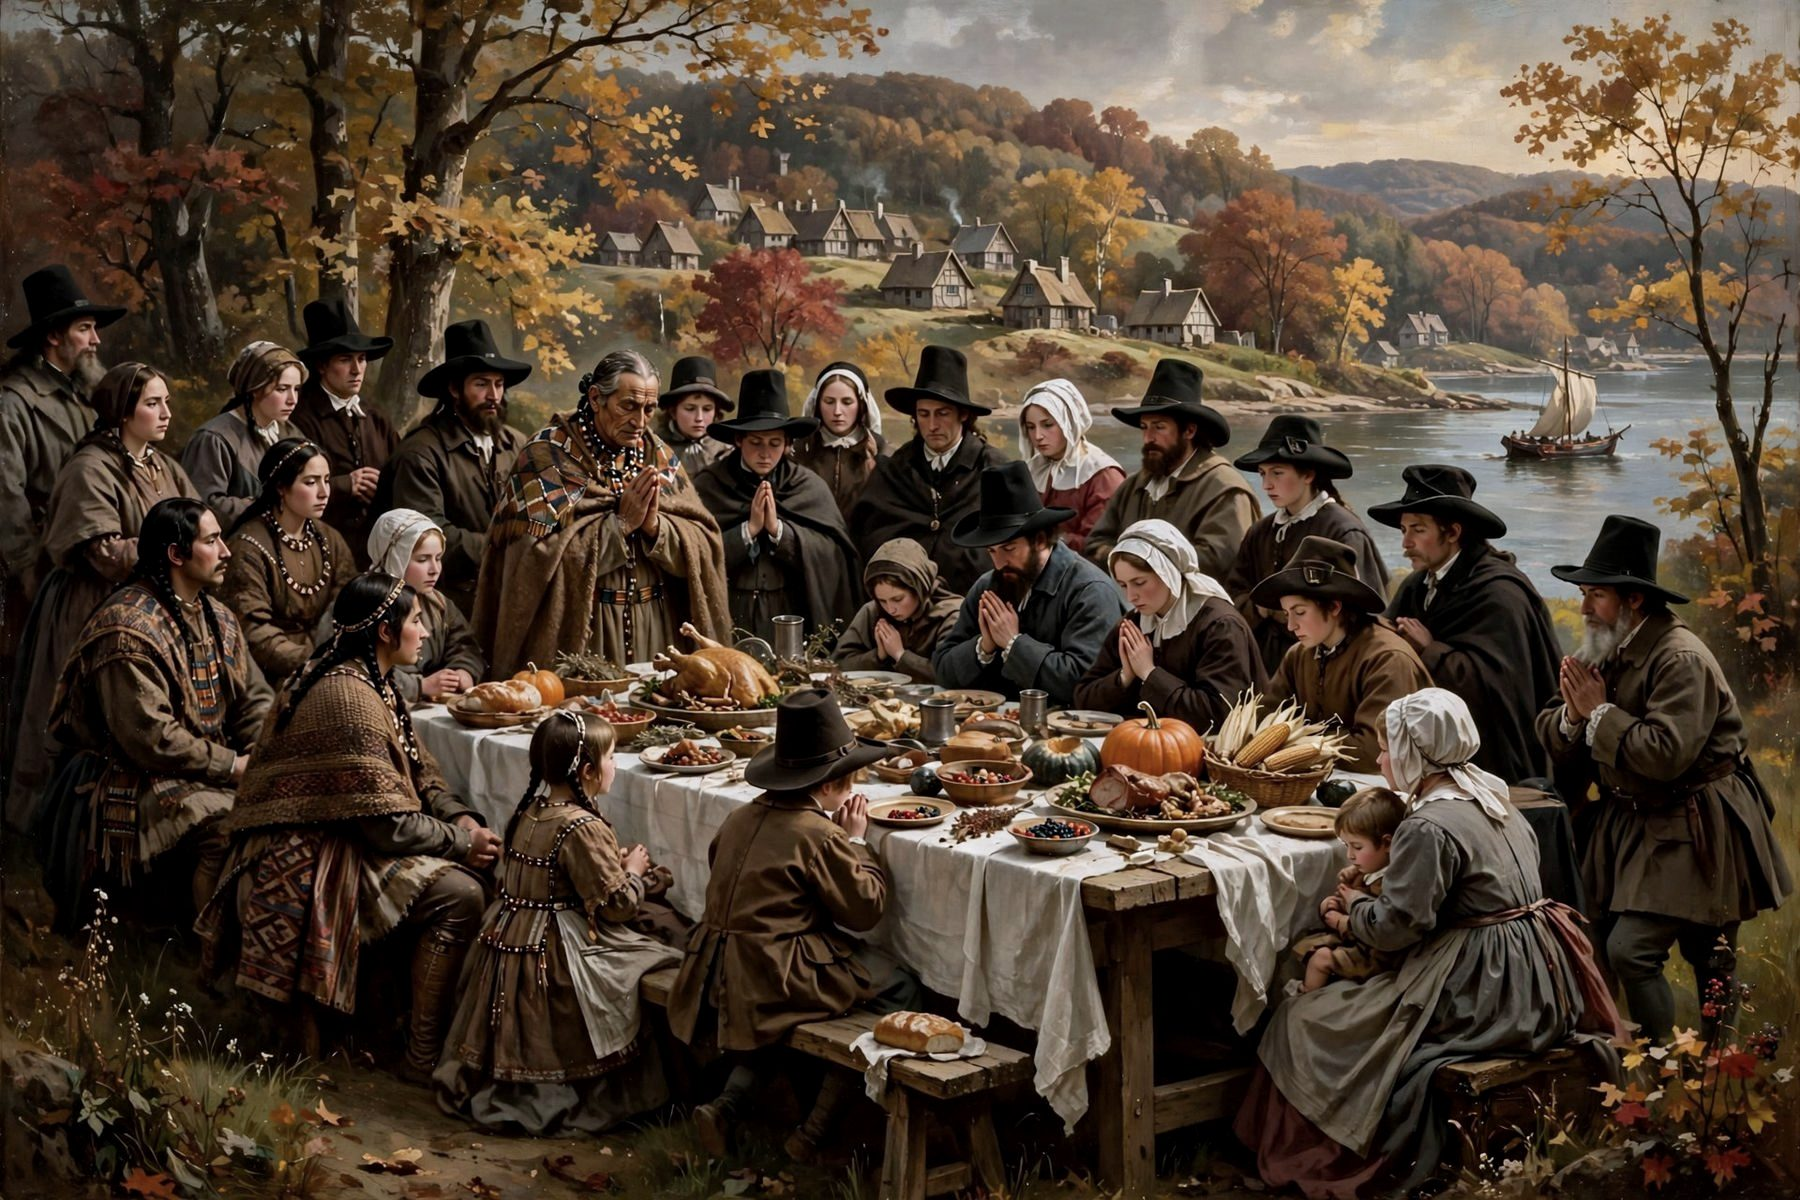
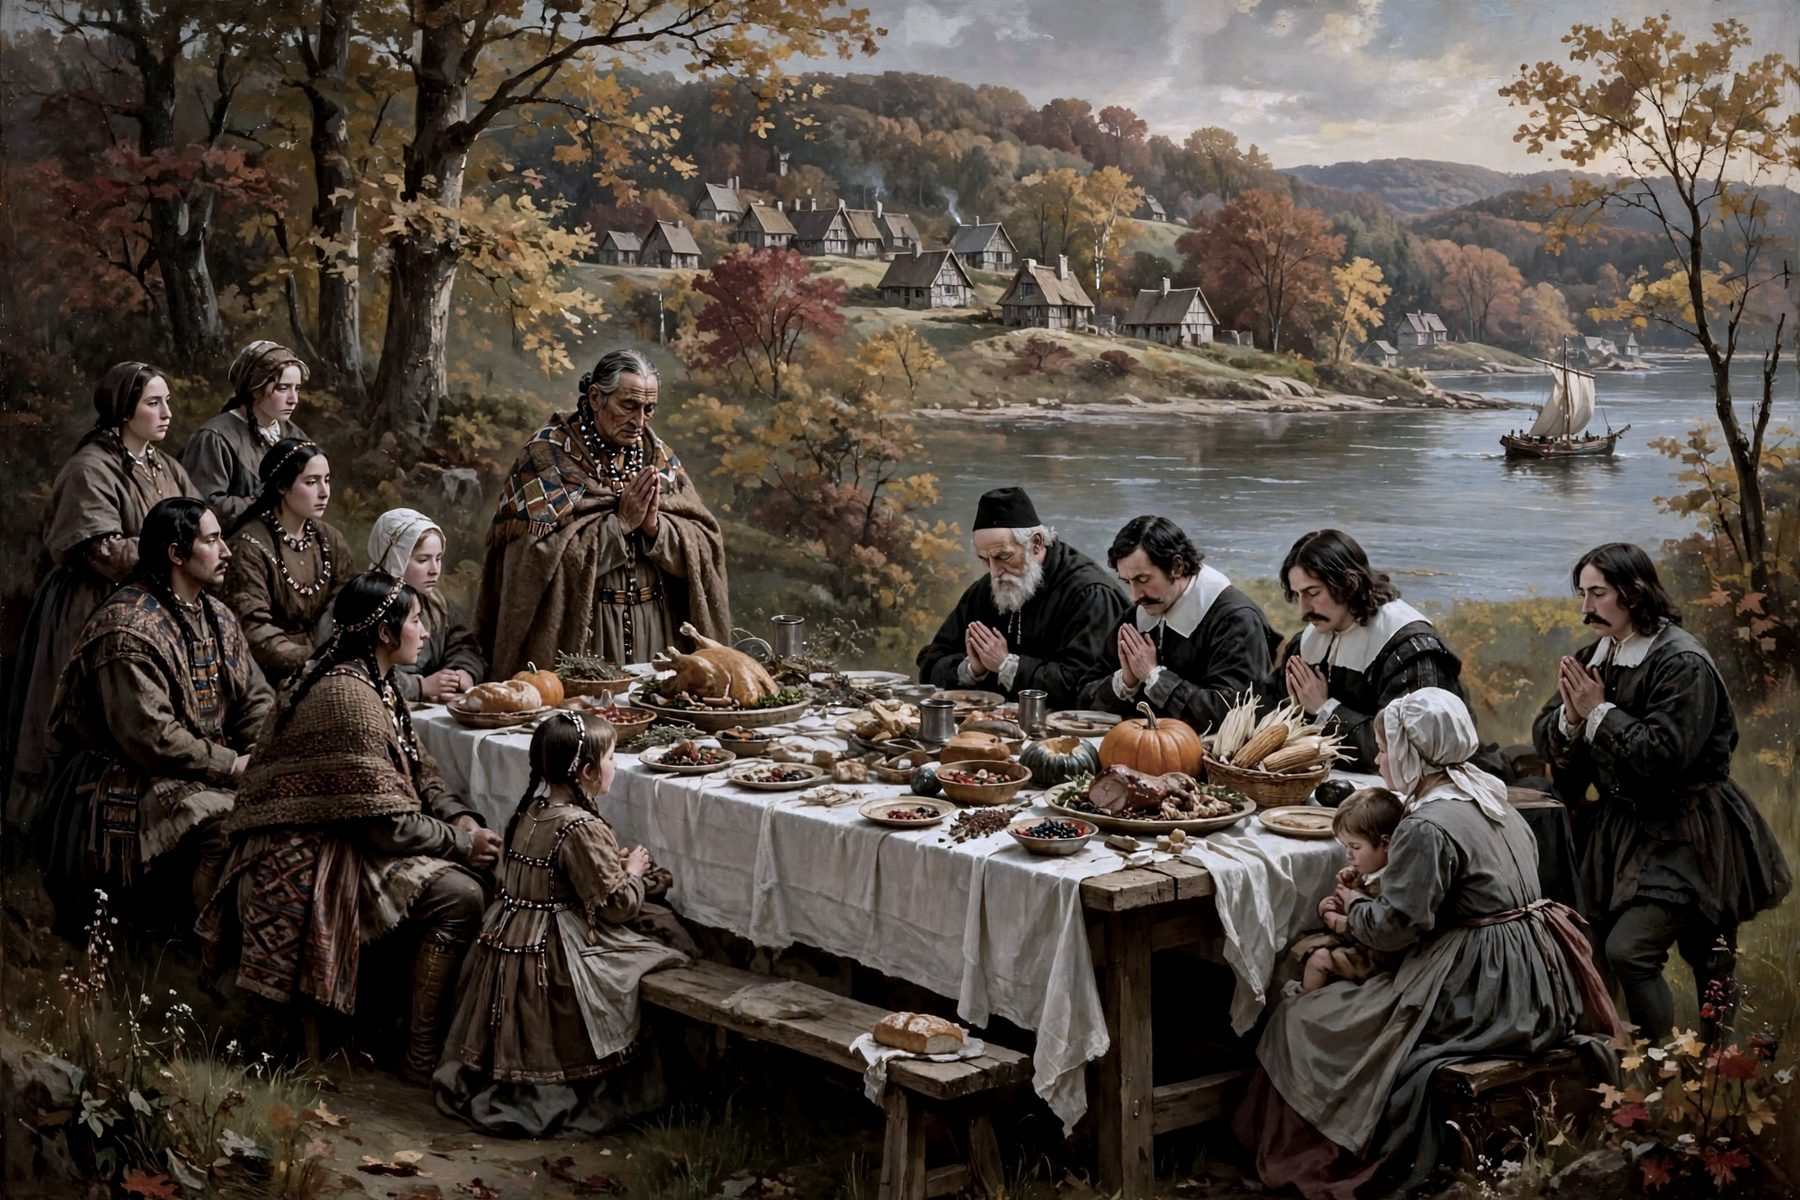
Thanksgiving card v3: three men painted into hero (Brewster/Bradford/Winslow), November grade re-applied, figures section + history note removed, 3-way Mandarin/Cantonese/English toggle, narration button for Abe's recordings

diff --git a/thanksgiving/index.html b/thanksgiving/index.html
@@ -18,7 +18,8 @@
   *{box-sizing:border-box}
   html,body{margin:0;padding:0}
   body{background:#f7f1e5;color:#3d2f1d;font-family:"Noto Serif CJK TC","Songti TC",Georgia,serif;line-height:1.75}
-  body[data-lang="zh"] .en{display:none}
+  body[data-lang="cmn"] .en{display:none}
+  body[data-lang="yue"] .en{display:none}
   body[data-lang="en"] .zh{display:none}
   a{color:#8a6d2f}
   .topbar{position:absolute;top:0;left:0;right:0;z-index:5;display:flex;justify-content:space-between;align-items:center;padding:14px 20px;color:#fdf8ec;text-shadow:0 1px 6px rgba(0,0,0,.55)}
@@ -45,23 +46,17 @@
   .verse small{display:block;font-size:.62em;letter-spacing:.1em;opacity:.9;margin-top:6px}
   .paper{max-width:680px;margin:0 auto;padding:44px 22px 30px}
   h1{font-size:clamp(26px,5vw,36px);line-height:1.4;text-align:center;margin:0 0 6px;color:#5b3f1a}
-  .sub{text-align:center;color:#8a6d2f;letter-spacing:.12em;font-size:14px;margin:0 0 28px}
+  .sub{text-align:center;color:#8a6d2f;letter-spacing:.12em;font-size:14px;margin:0 0 20px}
   .paper p{margin:0 0 18px;font-size:17px}
-  .note{border-left:3px solid #c9a24b;background:#f3e9d2;padding:14px 16px;font-size:14.5px;color:#6b5636;margin:26px 0}
-  .note b{color:#5b3f1a}
   h2{font-size:21px;color:#5b3f1a;margin:34px 0 14px;text-align:center}
-  .figs{display:grid;grid-template-columns:1fr 1fr;gap:16px}
-  .figcard{background:#fffdf6;border:1px solid #e3d3ae;border-radius:12px;padding:16px 14px;text-align:center}
-  .figcard img{width:112px;height:auto;border-radius:8px;border:1px solid #d8c08a;display:block;margin:0 auto 10px}
-  .figcard .name{font-weight:700;font-size:16.5px;color:#5b3f1a;line-height:1.5;margin:0 0 2px}
-  .figcard .role{font-size:13px;color:#8a6d2f;letter-spacing:.08em;margin:0 0 10px}
-  .figcard p{font-size:14.5px;line-height:1.7;text-align:left;margin:0}
-  .footnote{font-size:13px;color:#8a7a5c;text-align:center;margin:14px 0 0;line-height:1.6}
   .poem{background:#fffdf6;border:1px solid #e3d3ae;border-radius:12px;padding:22px 20px 18px;text-align:center}
   .poem .lines{font-size:17.5px;line-height:2.05;color:#4a3a22;margin:0 0 16px}
   .listen{display:inline-block;font-family:inherit;font-size:15.5px;letter-spacing:.06em;padding:10px 22px;border-radius:999px;border:1px solid #c9a24b;background:#c9a24b;color:#2b2118;cursor:pointer}
   .listen.speaking{background:#8a6d2f;border-color:#8a6d2f;color:#fdf8ec}
   .poem .hint{font-size:13px;color:#8a7a5c;margin:10px 0 0}
+  .narrate{text-align:center;margin:0 0 26px}
+  .narrate .listen{font-size:16.5px;padding:12px 26px}
+  .narrate .hint{font-size:13px;color:#8a7a5c;margin:10px 0 0}
   .sig{margin:34px 0 6px;font-size:18px;color:#5b3f1a;text-align:center}
   .copyrow{text-align:center;margin:22px 0 6px}
   .copybtn{display:inline-block;font-family:inherit;font-size:16px;padding:11px 24px;border-radius:999px;border:1px solid #8a6d2f;background:#fffdf6;color:#6b4d16;cursor:pointer}
@@ -76,21 +71,20 @@
     .verse{font-size:22px}
     .paper{padding:34px 18px 22px}
     .paper p{font-size:16.5px}
-    .figs{grid-template-columns:1fr}
-    .figcard img{width:96px}
     .fall .chip{font-size:12.5px}
     .fall .chip.zh{font-size:13.5px}
   }
 </style>
 </head>
-<body data-lang="zh">
+<body data-lang="cmn">
 
 <header class="topbar">
   <a href="https://gls.wordnspirit.com/">← <span class="zh">基督燈臺事工</span><span class="en">Golden Lampstand Ministry</span></a>
   <div class="topbar-right">
     <span class="tag">WORD &amp; SPIRIT · NEW ENGLAND</span>
     <div class="lang-toggle" role="group" aria-label="Language / 語言">
-      <button type="button" id="btn-zh" class="on" onclick="setLang('zh')">中文</button>
+      <button type="button" id="btn-cmn" class="on" onclick="setLang('cmn')">普通話</button>
+      <button type="button" id="btn-yue" onclick="setLang('yue')">粵語</button>
       <button type="button" id="btn-en" onclick="setLang('en')">English</button>
     </div>
   </div>
@@ -171,37 +165,21 @@
   <h1><span class="zh">1621 普利茅斯的秋光與感恩</span><span class="en">Autumn Light &amp; Gratitude Since 1621</span></h1>
   <p class="sub"><span class="zh">一張安靜的卡片，送給你</span><span class="en">A quiet card, for you</span></p>
 
+  <div class="narrate">
+    <button type="button" class="listen" id="narrateBtn" onclick="togglePlay('narration')"><span class="zh">▶ 聽牧師的話</span><span class="en">▶ Listen</span></button>
+    <p class="hint"><span class="zh">陳曉東牧師親自錄音</span><span class="en">Recorded by Rev. Dr. Abraham Chan</span></p>
+  </div>
+
   <p><span class="zh">在一個安靜的秋日，一張長桌擺在普利茅斯的海灣邊。清教徒與萬帕諾亞格人圍坐在一起，為著剛剛收穫的玉米、南瓜與野禽，低頭謝恩。桌上的食物不多，卻足夠讓一群歷經嚴冬、幾乎失去一切的人，重新學會一件事：恩典不是理所當然的。</span><span class="en">On a quiet autumn day, a long table stood by the bay at Plymouth. Pilgrims and Wampanoag sat together around it, bowing their heads in thanks for the corn, the pumpkins, and the wild fowl they had just harvested. The food was not plentiful, yet it was enough to teach a people who had survived a terrible winter, and lost nearly everything, one thing again: grace is never to be taken for granted.</span></p>
 
   <p><span class="zh">這張卡片所記念的，正是那一刻——恩典從上頭來。雅各書說：「各樣美善的恩賜和各樣全備的賞賜都是從上頭來的。」就像嗎哪一樣，食物、友誼與平安，都不是我們掙來的，而是從天上緩緩降下的禮物。</span><span class="en">This card remembers that moment — the moment grace came down from above. As James writes, “Every good gift and every perfect gift is from above.” Like manna, food, friendship, and peace are not things we earn; they are gifts that descend gently from heaven.</span></p>
-
-  <div class="note">
-    <p style="margin:0"><span class="zh"><b>歷史註記：</b>1621 年秋天，普利茅斯殖民地與萬帕諾亞格人共進秋收筵席。愛德華·溫斯洛（Edward Winslow）在《莫特關係》（Mourt's Relation，1622）中記述了這場宴會；威廉·布拉德福德（William Bradford）在《普利茅斯種植園史》（Of Plymouth Plantation）中留下了殖民地早期的完整記載。文獻提到的食物包括鹿肉、野禽、印第安玉米、南瓜、豆類、魚、莓果與堅果。火雞是後來的傳統象徵，並非文獻的中心。</span><span class="en"><b>A note on the history:</b> in the autumn of 1621, the Plymouth colonists shared a harvest feast with the Wampanoag. Edward Winslow described the feast in Mourt's Relation (1622); William Bradford preserved the colony's early history in Of Plymouth Plantation. The foods named in the records include venison, wild fowl, Indian corn, pumpkins, beans, fish, berries, and nuts. The turkey is a later traditional symbol, not the centre of the record.</span></p>
-  </div>
-
-  <h2><span class="zh">桌邊的人物</span><span class="en">The People at the Table</span></h2>
-  <div class="figs">
-    <div class="figcard">
-      <img src="figures/brewster.png" alt="布魯斯特長老想像像" loading="lazy">
-      <p class="name"><span class="zh">布魯斯特長老</span><span class="en">Elder William Brewster</span></p>
-      <p class="role"><span class="zh">約 1566–1644 · 治理長老</span><span class="en">c. 1566–1644 · Ruling Elder</span></p>
-      <p><span class="zh">清教徒的治理長老與屬靈父親，在第一個冬天為垂死者禱告。據傳統，他在 1621 年秋收筵席上領眾謝恩——正是畫中桌首低頭禱告的那一位。</span><span class="en">The Pilgrims' ruling elder and spiritual father, who prayed with the dying through the first winter. Tradition holds that he led the prayer of thanks at the 1621 harvest feast — the bowed head at the centre of the painting.</span></p>
-    </div>
-    <div class="figcard">
-      <img src="figures/bradford.jpg" alt="威廉·布拉德福德想像像" loading="lazy">
-      <p class="name"><span class="zh">威廉·布拉德福德</span><span class="en">William Bradford</span></p>
-      <p class="role"><span class="zh">約 1590–1657 · 第二任總督</span><span class="en">c. 1590–1657 · Second Governor</span></p>
-      <p><span class="zh">普利茅斯殖民地總督三十年，《普利茅斯種植園史》（1630 年起筆）的作者——正是這部史書保存了清教徒的故事。1621 年秋收筵席上，他就是那位總督，五隻鹿正是獻給他的。</span><span class="en">Governor of Plymouth Colony for some thirty years, and author of Of Plymouth Plantation — the history, begun in 1630, that preserves the Pilgrims' story. He was the governor at the 1621 harvest feast, to whom the five deer were brought.</span></p>
-    </div>
-  </div>
-  <p class="footnote"><span class="zh">畫像皆為後人想像，並非寫生——布魯斯特與布拉德福德生前皆無畫像存世。</span><span class="en">Both likenesses are artists' imaginings, not portraits from life — no portrait of either man from life survives.</span></p>
 
   <h2><span class="zh">感恩詩歌</span><span class="en">Thanksgiving Poems</span></h2>
   <div class="poem">
     <p class="lines zh">秋光灑在普利茅斯，<br>海灣靜靜聽禱聲。<br>玉米南瓜擺滿桌，<br>鹿肉魚鮮謝主恩。<br>嚴冬已過春又來，<br>存留性命非偶然。<br>各樣美善從上頭，<br>嗎哪降下似甘霖。<br>清教徒與原住民，<br>圍桌同坐一家親。<br>不同言語同一心，<br>感恩化作歌聲新。<br>願這恩典臨我家，<br>親人朋友同蒙福。<br>數算主恩心安息，<br>年年秋天唱感恩。</p>
     <p class="lines en">Autumn light on Plymouth Bay,<br>The tide keeps time with prayer.<br>Corn and pumpkin fill the board,<br>Venison and fish are there.<br>The winter passed, the spring returned,<br>Our lives were not our own.<br>Every good gift from above,<br>Like manna gently sown.<br>The Pilgrim and the Native son<br>Sit down as one at the board.<br>Different tongues, one thankful heart,<br>Our gratitude to the Lord.<br>May this grace fall on my home,<br>On family, friend, and call.<br>Counting mercies, hearts at rest,<br>Thanksgiving crowns it all.</p>
-    <button type="button" class="listen" id="listenBtn" onclick="toggleListen()"><span class="zh">▶ 朗誦這首詩</span><span class="en">▶ Listen to this poem</span></button>
-    <p class="hint"><span class="zh">按一下即可聽到朗誦（使用您裝置的語音）</span><span class="en">Tap to hear it read aloud (using your device's voice)</span></p>
+    <button type="button" class="listen" id="poemBtn" onclick="togglePlay('poem')"><span class="zh">▶ 朗誦這首詩</span><span class="en">▶ Listen to this poem</span></button>
+    <p class="hint"><span class="zh">按一下即可聽到朗誦</span><span class="en">Tap to hear it read aloud</span></p>
   </div>
 
   <p class="sig">陳曉東 敬賀 · Rev. Dr. Abraham Chan</p>
@@ -217,49 +195,81 @@
 </main>
 
 <script>
+var NARRATION = {
+  cmn: ["親愛的朋友，感恩節快樂。","四百多年前，在普利茅斯的海灣邊，一張長桌擺在秋光裡。清教徒和萬帕諾亞格人圍坐在一起，為剛收穫的玉米、南瓜和野禽，低頭謝恩。桌上的食物不多，卻足夠讓一群歷經嚴冬、幾乎失去一切的人，重新學會一件事：恩典不是理所當然的。","聖經說：各樣美善的恩賜和各樣全備的賞賜，都是從上頭來的。就像嗎哪一樣，食物、友誼與平安，都不是我們掙來的，而是從天上緩緩降下的禮物。","願這一份從上頭來的恩典，也臨到你和你的家人。感恩節快樂，我是陳曉東。"],
+  yue: ["親愛的朋友，感恩節快樂。","四百多年前，在普利茅斯的海灣邊，一張長桌擺在秋光裡。清教徒和萬帕諾亞格人圍坐在一起，為剛收穫的玉米、南瓜和野禽，低頭謝恩。桌上的食物不多，卻足夠讓一群歷經嚴冬、幾乎失去一切的人，重新學會一件事：恩典不是理所當然的。","聖經說：各樣美善的恩賜和各樣全備的賞賜，都是從上頭來的。就像嗎哪一樣，食物、友誼與平安，都不是我們掙來的，而是從天上緩緩降下的禮物。","願這一份從上頭來的恩典，也臨到你和你的家人。感恩節快樂，我是陳曉東。"],
+  en: ["Dear friend, Happy Thanksgiving.","More than four hundred years ago, on a bay at Plymouth, a long table stood in the autumn light. Pilgrims and Wampanoag sat together around it, bowing their heads in thanks for the corn, the pumpkins, and the wild fowl they had just harvested. The food was not plentiful, yet it was enough to teach a people who had survived a terrible winter, and lost nearly everything, one thing again: grace is never to be taken for granted.","The Bible says: every good gift and every perfect gift is from above. Like manna, food, friendship, and peace are not things we earn; they are gifts that descend gently from heaven.","May this grace from above fall on you and your family too. Happy Thanksgiving. I am Abraham Chan."]
+};
 var POEMS = {
-  zh: ["秋光灑在普利茅斯，","海灣靜靜聽禱聲。","玉米南瓜擺滿桌，","鹿肉魚鮮謝主恩。","嚴冬已過春又來，","存留性命非偶然。","各樣美善從上頭，","嗎哪降下似甘霖。","清教徒與原住民，","圍桌同坐一家親。","不同言語同一心，","感恩化作歌聲新。","願這恩典臨我家，","親人朋友同蒙福。","數算主恩心安息，","年年秋天唱感恩。"],
+  cmn: ["秋光灑在普利茅斯，","海灣靜靜聽禱聲。","玉米南瓜擺滿桌，","鹿肉魚鮮謝主恩。","嚴冬已過春又來，","存留性命非偶然。","各樣美善從上頭，","嗎哪降下似甘霖。","清教徒與原住民，","圍桌同坐一家親。","不同言語同一心，","感恩化作歌聲新。","願這恩典臨我家，","親人朋友同蒙福。","數算主恩心安息，","年年秋天唱感恩。"],
+  yue: ["秋光灑在普利茅斯，","海灣靜靜聽禱聲。","玉米南瓜擺滿桌，","鹿肉魚鮮謝主恩。","嚴冬已過春又來，","存留性命非偶然。","各樣美善從上頭，","嗎哪降下似甘霖。","清教徒與原住民，","圍桌同坐一家親。","不同言語同一心，","感恩化作歌聲新。","願這恩典臨我家，","親人朋友同蒙福。","數算主恩心安息，","年年秋天唱感恩。"],
   en: ["Autumn light on Plymouth Bay,","The tide keeps time with prayer.","Corn and pumpkin fill the board,","Venison and fish are there.","The winter passed, the spring returned,","Our lives were not our own.","Every good gift from above,","Like manna gently sown.","The Pilgrim and the Native son","Sit down as one at the board.","Different tongues, one thankful heart,","Our gratitude to the Lord.","May this grace fall on my home,","On family, friend, and call.","Counting mercies, hearts at rest,","Thanksgiving crowns it all."]
 };
-var speaking = false;
-function lang(){ return document.body.getAttribute('data-lang') || 'zh'; }
+var SPEECH_LANG = {cmn: 'zh-CN', yue: 'zh-HK', en: 'en-US'};
+var playing = null; // {kind, audio}
+function lang(){ return document.body.getAttribute('data-lang') || 'cmn'; }
 function setLang(l){
-  stopListen();
+  stopAll();
   document.body.setAttribute('data-lang', l);
-  document.getElementById('btn-zh').classList.toggle('on', l === 'zh');
+  document.getElementById('btn-cmn').classList.toggle('on', l === 'cmn');
+  document.getElementById('btn-yue').classList.toggle('on', l === 'yue');
   document.getElementById('btn-en').classList.toggle('on', l === 'en');
   try{ localStorage.setItem('thanks-lang', l); }catch(e){}
 }
-function listenLabel(){
-  var b = document.getElementById('listenBtn');
-  if(speaking){
-    b.innerHTML = lang() === 'zh' ? '■ 停止朗誦' : '■ Stop';
-  }else{
-    b.innerHTML = lang() === 'zh' ? '<span class="zh">▶ 朗誦這首詩</span><span class="en">▶ Listen to this poem</span>' : '<span class="zh">▶ 朗誦這首詩</span><span class="en">▶ Listen to this poem</span>';
-  }
-  b.classList.toggle('speaking', speaking);
-}
-function stopListen(){
-  if('speechSynthesis' in window){ window.speechSynthesis.cancel(); }
-  if(speaking){ speaking = false; listenLabel(); }
-}
-function toggleListen(){
-  if(!('speechSynthesis' in window)){ return; }
-  if(speaking){ stopListen(); return; }
+function btnFor(kind){ return document.getElementById(kind === 'narration' ? 'narrateBtn' : 'poemBtn'); }
+function labelFor(kind, state){
   var l = lang();
-  var u = new SpeechSynthesisUtterance(POEMS[l].join('\n'));
-  u.lang = l === 'zh' ? 'zh-CN' : 'en-US';
+  if(kind === 'narration'){
+    if(state === 'playing') return l === 'en' ? '■ Stop' : '■ 停止播放';
+    return l === 'en' ? '▶ Listen' : '▶ 聽牧師的話';
+  }
+  if(state === 'playing') return l === 'en' ? '■ Stop' : '■ 停止朗誦';
+  return l === 'en' ? '▶ Listen to this poem' : '▶ 朗誦這首詩';
+}
+function setBtn(kind, state){
+  var b = btnFor(kind);
+  b.innerHTML = labelFor(kind, state);
+  b.classList.toggle('speaking', state === 'playing');
+}
+function stopAll(){
+  if('speechSynthesis' in window){ window.speechSynthesis.cancel(); }
+  if(playing && playing.audio){ try{ playing.audio.pause(); }catch(e){} }
+  if(playing){ setBtn(playing.kind, 'idle'); playing = null; }
+}
+function speakFallback(kind, l){
+  if(!('speechSynthesis' in window)){ return; }
+  var text = (kind === 'narration' ? NARRATION : POEMS)[l].join('\n');
+  var u = new SpeechSynthesisUtterance(text);
+  u.lang = SPEECH_LANG[l];
   u.rate = 0.92;
   var vs = window.speechSynthesis.getVoices();
   for(var i = 0; i < vs.length; i++){
-    if(l === 'zh' && vs[i].lang && vs[i].lang.indexOf('zh') === 0){ u.voice = vs[i]; break; }
+    if(l === 'cmn' && vs[i].lang === 'zh-CN'){ u.voice = vs[i]; break; }
+    if(l === 'yue' && (vs[i].lang === 'zh-HK' || vs[i].lang === 'yue-Hant-HK')){ u.voice = vs[i]; break; }
     if(l === 'en' && vs[i].lang === 'en-US'){ u.voice = vs[i]; break; }
   }
-  u.onend = function(){ speaking = false; listenLabel(); };
-  u.onerror = function(){ speaking = false; listenLabel(); };
-  speaking = true; listenLabel();
+  u.onend = function(){ if(playing && playing.kind === kind){ setBtn(kind, 'idle'); playing = null; } };
+  u.onerror = function(){ if(playing && playing.kind === kind){ setBtn(kind, 'idle'); playing = null; } };
   window.speechSynthesis.cancel();
   window.speechSynthesis.speak(u);
+}
+function togglePlay(kind){
+  if(playing && playing.kind === kind){ stopAll(); return; }
+  stopAll();
+  var l = lang();
+  var url = 'audio/' + kind + '-' + l + '.mp3';
+  setBtn(kind, 'playing');
+  playing = {kind: kind, audio: null};
+  fetch(url, {method: 'HEAD'}).then(function(r){
+    if(!r.ok){ throw new Error('no file'); }
+    var a = new Audio(url);
+    playing.audio = a;
+    a.onended = function(){ setBtn(kind, 'idle'); playing = null; };
+    a.onerror = function(){ speakFallback(kind, l); };
+    a.play().catch(function(){ speakFallback(kind, l); });
+  }).catch(function(){
+    speakFallback(kind, l);
+  });
 }
 if('speechSynthesis' in window){ window.speechSynthesis.onvoiceschanged = function(){}; }
 function copyLink(){
@@ -267,7 +277,7 @@ function copyLink(){
   var btn = document.getElementById('copyBtn');
   var done = function(){
     btn.classList.add('done');
-    btn.innerHTML = lang() === 'zh' ? '已複製連結 ✓' : 'Link copied ✓';
+    btn.innerHTML = lang() === 'en' ? 'Link copied ✓' : '已複製連結 ✓';
     setTimeout(function(){
       btn.classList.remove('done');
       btn.innerHTML = '<span class="zh">複製分享連結</span><span class="en">Copy sharing link</span>';
@@ -286,7 +296,8 @@ function fallbackCopy(text){
 }
 try{
   var saved = localStorage.getItem('thanks-lang');
-  if(saved === 'en' || saved === 'zh'){ setLang(saved); }
+  if(saved === 'cmn' || saved === 'yue' || saved === 'en'){ setLang(saved); }
+  else if(saved === 'zh'){ setLang('cmn'); }
 }catch(e){}
 </script>
 </body>
